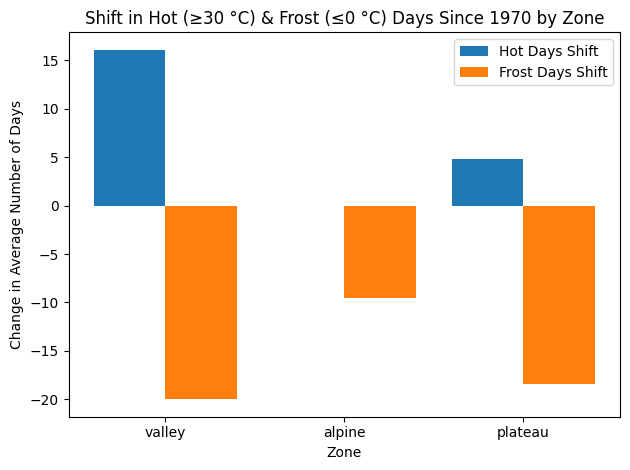
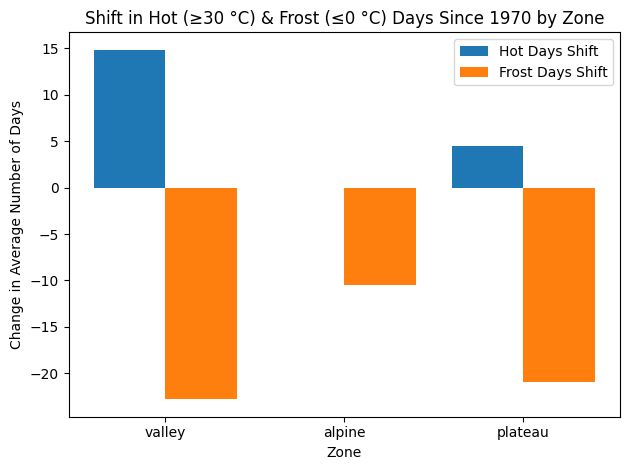
Latex: Abstract added and final adjustments

diff --git a/LATEX_Documentation/sections/RQ2.tex b/LATEX_Documentation/sections/RQ2.tex
@@ -24,11 +24,11 @@ We computed the annual, per‐station average counts of hot days (see Figure~\re
 \end{figure}
 
 \paragraph{End–Minus–Start Difference.}
-To highlight net shifts, we compared the mean of 2015–24 vs.\ 1970–79 per zone, yielding the change in average hot‐ and frost‐days (see Figure~\ref{fig:decade_difference}).
+To highlight net shifts, we compared the mean of 2014–23 vs.\ 1970–79 per zone, yielding the change in average hot‐ and frost‐days (see Figure~\ref{fig:decade_difference}).
 \begin{figure}[ht]
   \centering
     \includegraphics[width=0.45\textwidth]{img/end-minus-start_diff.png}
-  \caption{Change in average hot and frost days (2015–23 minus 1970–79) by zone.}
+  \caption{Change in average hot and frost days (2014–23 minus 1970–79) by zone.}
   \label{fig:decade_difference}
 \end{figure}
 

diff --git a/LATEX_Documentation/climalyticsAt.tex b/LATEX_Documentation/climalyticsAt.tex
@@ -17,7 +17,7 @@
 \begin{document}
 
 \begin{abstract}
-Your abstract here.
+This project analyzes long-term climate trends and extreme weather events in Austria using scalable big data technologies. By processing decades of meteorological data with Apache Spark and visualizing results through Matplotlib, the study investigates temperature shifts, spatial patterns of hot and frost days, data coverage gaps, and optimal environmental conditions across elevation zones.
 \end{abstract}
 
 \maketitle
